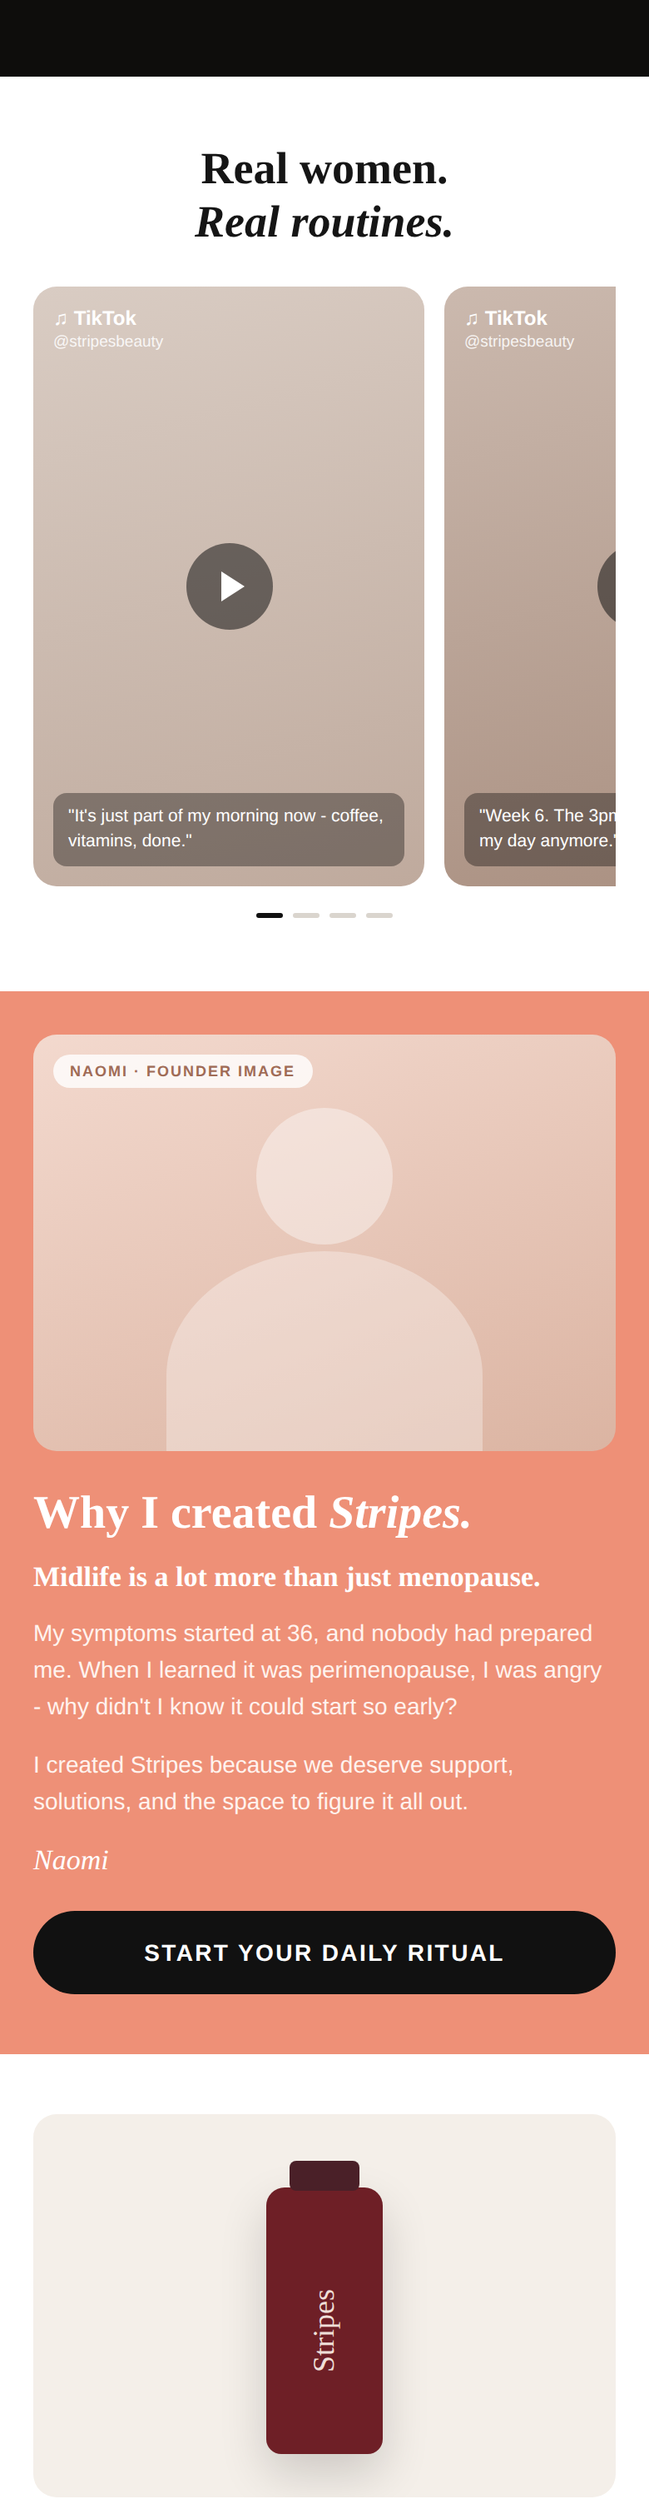
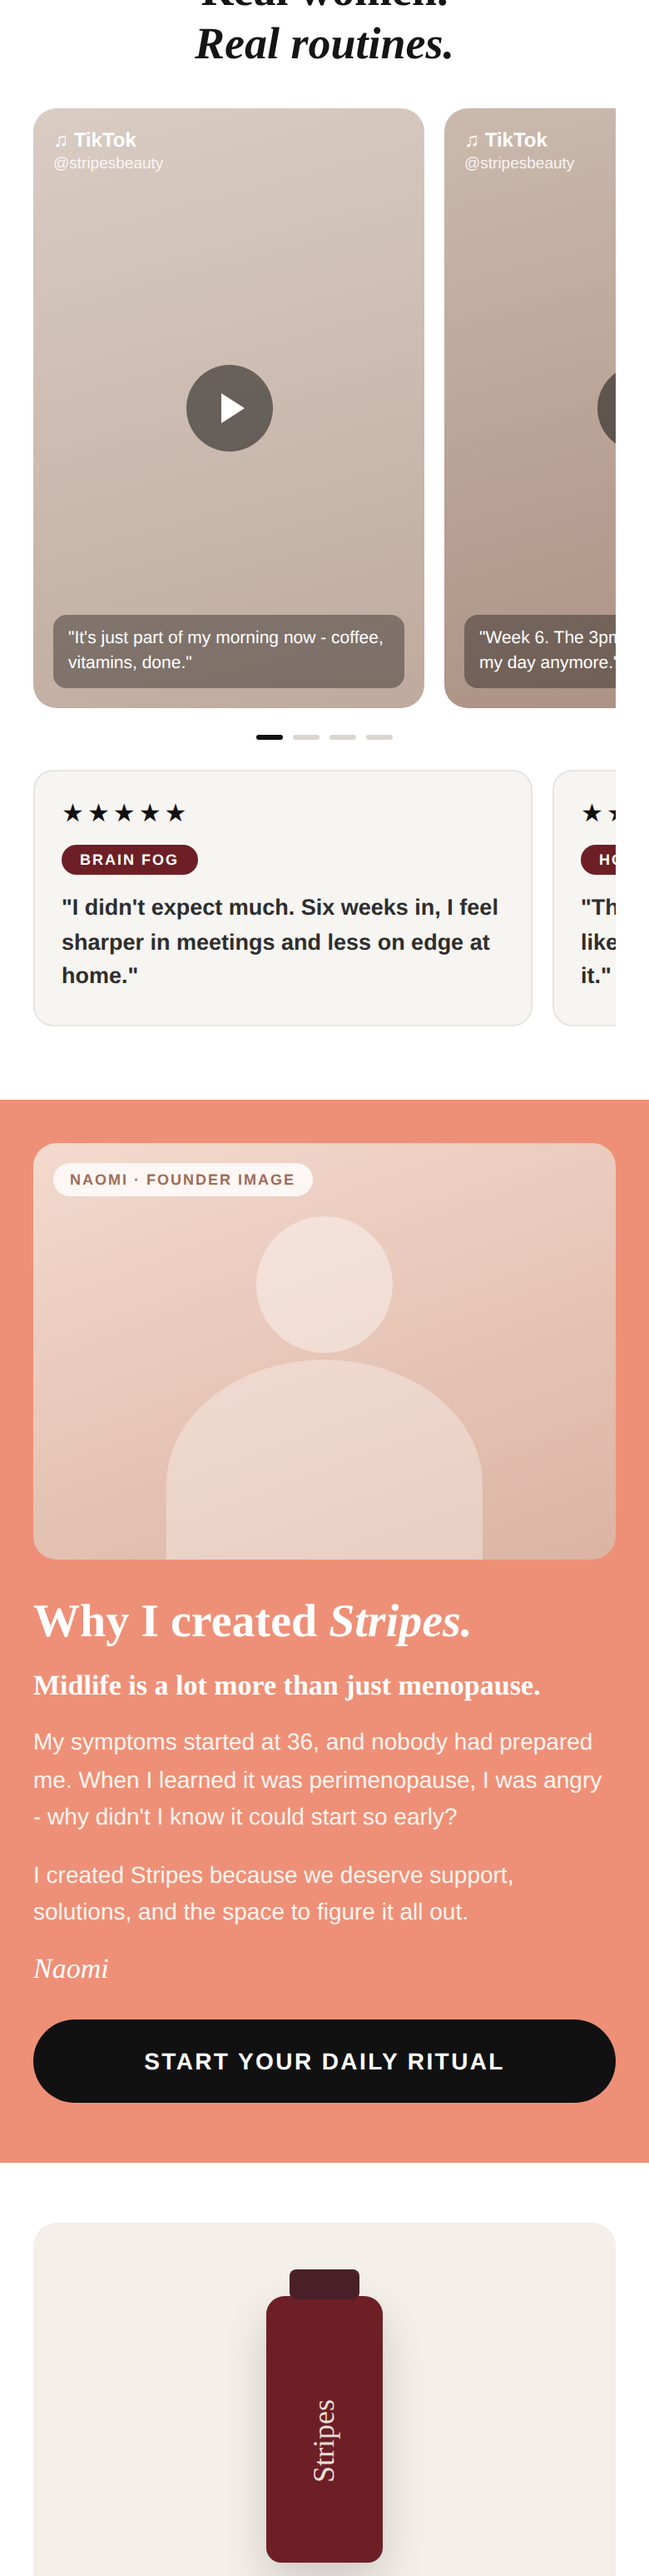
Landing page: serif hero headline + review cards under UGC carousel
Hero h1 now uses the brand serif per site reference; add the stars/tag/quote
review-card row (Don't-take-Naomi's-word pattern) with supplement-relevant
tags. Include segment renders.

Claude-Session: https://claude.ai/code/session_01GoAG3ySswQXo2H1hh5EwTk

diff --git a/diagrams/slides/p2-02-landing.html b/diagrams/slides/p2-02-landing.html
@@ -41,7 +41,7 @@
   .heroimg .bottle::after{content:"Stripes";position:absolute;left:50%;top:56%;transform:translate(-50%,-50%) rotate(-90deg);font-family:Georgia,serif;font-size:15px;color:#EFDFD8;letter-spacing:.5px;}
 
   .hero{background:var(--cream);padding:26px 20px 30px;}
-  .hero h1{font-size:34px;line-height:1.12;font-weight:700;letter-spacing:.2px;}
+  .hero h1{font-family:Georgia,'Times New Roman',serif;font-size:33px;line-height:1.14;font-weight:700;letter-spacing:.2px;}
   .hero h1 .it{font-style:italic;font-weight:600;}
   .hero .sub{font-size:15px;line-height:1.55;color:var(--body);margin-top:14px;}
   .hero .div{height:1px;background:#DDD8D1;margin:20px 0 16px;}
@@ -123,6 +123,12 @@
   .vc .play{position:absolute;left:50%;top:50%;transform:translate(-50%,-50%);width:52px;height:52px;border-radius:50%;background:rgba(20,20,20,.55);display:flex;align-items:center;justify-content:center;}
   .vc .play::after{content:"";border-left:14px solid #fff;border-top:9px solid transparent;border-bottom:9px solid transparent;margin-left:4px;}
   .vc .cap{position:absolute;left:12px;right:12px;bottom:12px;font-size:10.5px;color:#fff;background:rgba(0,0,0,.35);border-radius:8px;padding:7px 9px;line-height:1.4;}
+  /* review cards (Don't-take-Naomi's-word pattern) */
+  .rrow{display:flex;gap:12px;margin-top:18px;overflow:hidden;}
+  .rev{flex:0 0 300px;background:var(--cream);border:1px solid var(--line);border-radius:12px;padding:16px 16px 18px;}
+  .rev .st{color:#111;font-size:15px;letter-spacing:2px;}
+  .rev .tag{display:inline-block;margin-top:10px;font-size:9px;font-weight:700;letter-spacing:1px;color:#fff;background:var(--burg);border-radius:999px;padding:4px 11px;}
+  .rev .q{font-size:13.5px;line-height:1.55;margin-top:10px;color:var(--body);font-weight:600;}
 
   /* founder */
   .founder{background:var(--coral);color:#fff;padding:26px 20px 36px;}
@@ -303,6 +309,18 @@
     </div>
   </div>
   <div class="dots"><span class="on"></span><span></span><span></span><span></span></div>
+  <div class="rrow">
+    <div class="rev">
+      <div class="st">&#9733;&#9733;&#9733;&#9733;&#9733;</div>
+      <span class="tag">BRAIN FOG</span>
+      <div class="q">"I didn't expect much. Six weeks in, I feel sharper in meetings and less on edge at home."</div>
+    </div>
+    <div class="rev">
+      <div class="st">&#9733;&#9733;&#9733;&#9733;&#9733;</div>
+      <span class="tag">HOT FLASHES</span>
+      <div class="q">"The night sweats aren't waking me up like they used to. I'm not going without it."</div>
+    </div>
+  </div>
 </div>
 
 <!-- 7 FOUNDER -->
